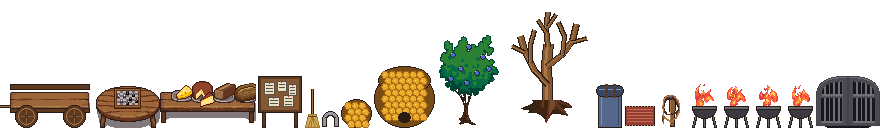
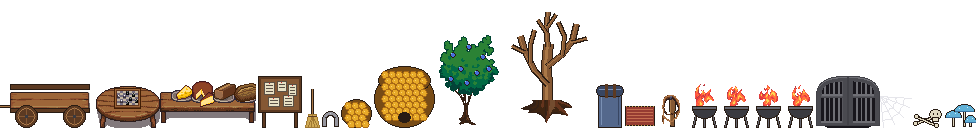
feat(maps): M16.6.5 cave decoration: cobwebs, bones and glowing mushrooms in 4 caves

Changed region(s): [[0.0, 0.0938, 1.0, 1.0]]

diff --git a/tools/build_objects.py b/tools/build_objects.py
@@ -51,6 +51,10 @@ CLOTH_DARK = (56, 70, 98, 255)
 CLOTH_LIGHT = (122, 144, 180, 255)
 MAT = (150, 60, 50, 255)
 MAT_LIGHT = (196, 110, 80, 255)
+BONE = (226, 218, 194, 255)
+CAP = (96, 176, 214, 255)
+CAP_LIGHT = (196, 236, 250, 255)
+CAP_DARK = (56, 112, 156, 255)
 
 
 def sheet(rel: str) -> Image.Image:
@@ -275,6 +279,49 @@ def stone_doors() -> Image.Image:
 
 
 # name → (width, height, [frames]) in layout order. Never reorder: objects.json uses the regions.
+def cobweb() -> Image.Image:
+    """A web in a corner: threads fan out from the top-left corner, joined by sagging arcs."""
+    img, d = canvas(32, 32)
+    thread = (226, 226, 232, 220)
+    tips = [(31, 2), (29, 11), (23, 21), (14, 28), (3, 31)]
+    for tx, ty in tips:
+        d.line((0, 0, tx, ty), fill=thread)
+    for r in (9, 17, 25):
+        pts = [(round(tx * r / 31), round(ty * r / 31)) for tx, ty in tips]
+        for (ax, ay), (bx, by) in zip(pts, pts[1:]):
+            mx, my = (ax + bx) // 2 - 1, (ay + by) // 2 - 1
+            d.line((ax, ay, mx, my), fill=thread)
+            d.line((mx, my, bx, by), fill=thread)
+    return img
+
+
+def bones() -> Image.Image:
+    """Two crossed bones and a small skull, on the floor."""
+    img, d = canvas(32, 20)
+    for a, b in [((3, 15), (22, 8)), ((4, 8), (24, 17))]:
+        d.line((*a, *b), fill=OUTLINE, width=4)
+        d.line((*a, *b), fill=BONE, width=2)
+        for x, y in (a, b):
+            d.ellipse((x - 2, y - 2, x + 2, y + 2), fill=BONE, outline=OUTLINE)
+    d.ellipse((17, 1, 29, 11), fill=BONE, outline=OUTLINE)
+    d.rectangle((20, 9, 26, 13), fill=BONE, outline=OUTLINE)
+    for x, y in [(21, 5), (21, 6), (25, 5), (25, 6)]:
+        d.point((x, y), fill=OUTLINE)
+    return img
+
+
+def glow_mushrooms() -> Image.Image:
+    """Three cave mushrooms with pale blue caps."""
+    img, d = canvas(32, 28)
+    for cx, top, w in [(9, 10, 8), (20, 4, 10), (26, 15, 6)]:
+        d.rectangle((cx - 1, top + 6, cx + 1, 26), fill=BONE, outline=OUTLINE)
+        d.pieslice((cx - w, top, cx + w, top + 14), 180, 360, fill=CAP, outline=OUTLINE)
+        d.point((cx - w // 2, top + 4), fill=CAP_LIGHT)
+        d.point((cx + w // 3, top + 3), fill=CAP_LIGHT)
+        d.line((cx - w + 1, top + 7, cx + w - 1, top + 7), fill=CAP_DARK)
+    return img
+
+
 EDITS: list[tuple[str, list]] = [
     ("wagon", [wagon]),
     ("chess_table", [chess_table]),
@@ -291,6 +338,9 @@ EDITS: list[tuple[str, list]] = [
     ("rope_anchor", [rope_anchor]),
     ("brazier", [lambda f=f: brazier(f) for f in range(4)]),
     ("stone_doors", [stone_doors]),
+    ("cobweb", [cobweb]),
+    ("bones", [bones]),
+    ("glow_mushrooms", [glow_mushrooms]),
 ]
 
 
